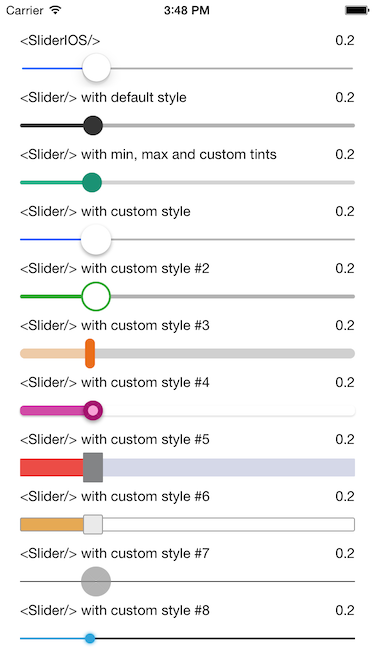
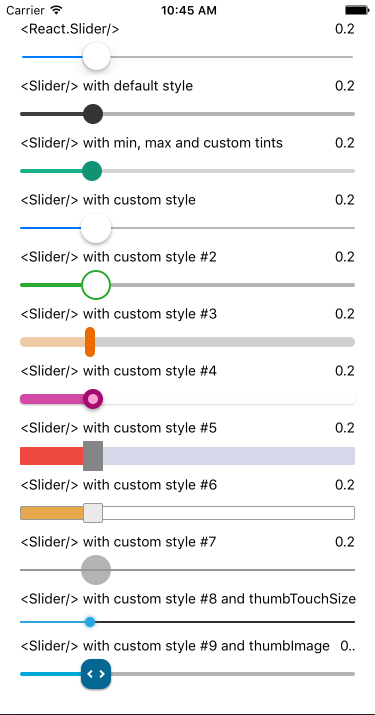
Add thumb image

Changed region(s): [[0.0, 0.0, 1.0, 1.0], [0.44, 0.0, 0.5867, 0.03]]

diff --git a/src/Slider.js b/src/Slider.js
@@ -7,6 +7,7 @@ import React, {
 
 import {
   Animated,
+  Image,
   StyleSheet,
   PanResponder,
   View
@@ -127,6 +128,11 @@ var Slider = React.createClass({
     thumbStyle: View.propTypes.style,
 
     /**
+     * Sets an image for the thumb.
+     */
+    thumbImage: Image.propTypes.source,
+
+    /**
      * Set this to true to visually see the thumb touch rect in green.
      */
     debugTouchArea: PropTypes.bool,
@@ -192,6 +198,7 @@ var Slider = React.createClass({
       minimumTrackTintColor,
       maximumTrackTintColor,
       thumbTintColor,
+      thumbImage,
       styles,
       style,
       trackStyle,
@@ -233,7 +240,9 @@ var Slider = React.createClass({
             {backgroundColor: thumbTintColor, marginTop: -(trackSize.height + thumbSize.height) / 2},
             mainStyles.thumb, thumbStyle, {left: thumbLeft, ...valueVisibleStyle}
           ]}
-        />
+        >
+          {this._renderThumbImage()}
+        </Animated.View>
         <View
           style={[defaultStyles.touchArea, touchOverflowStyle]}
           {...this._panResponder.panHandlers}>
@@ -439,6 +448,14 @@ var Slider = React.createClass({
         pointerEvents='none'
       />
     );
+  },
+
+  _renderThumbImage() {
+    var {thumbImage} = this.props;
+
+    if (!thumbImage) return;
+
+    return <Image source={thumbImage} />;
   }
 });
 

diff --git a/Example/app.js b/Example/app.js
@@ -135,6 +135,14 @@ var SliderExample = React.createClass({
             thumbTouchSize={{width: 50, height: 40}}
           />
         </SliderContainer>
+        <SliderContainer caption='<Slider/> with custom style #9 and thumbImage'>
+          <Slider
+            minimumTrackTintColor='#13a9d6'
+            thumbImage={require('./img/thumb.png')}
+            thumbStyle={customStyles9.thumb}
+            thumbTintColor='#0c6692'
+          />
+        </SliderContainer>
       </ScrollView>
     );
   },
@@ -281,7 +289,7 @@ var customStyles7 = StyleSheet.create({
 
 var customStyles8 = StyleSheet.create({
   container: {
-    height: 20,
+    height: 30,
   },
   track: {
     height: 2,
@@ -296,6 +304,17 @@ var customStyles8 = StyleSheet.create({
     shadowOffset: {width: 0, height: 0},
     shadowRadius: 2,
     shadowOpacity: 1,
+  }
+});
+
+var customStyles9 = StyleSheet.create({
+  thumb: {
+    width: 30,
+    height: 30,
+    shadowColor: 'black',
+    shadowOffset: {width: 0, height: 1},
+    shadowOpacity: 0.5,
+    shadowRadius: 1,
   }
 });
 

diff --git a/README.md b/README.md
@@ -92,6 +92,7 @@ onSlidingComplete     | function | Yes      |                           | Callba
 style                 | [style](http://facebook.github.io/react-native/docs/view.html#style)    | Yes      |                           | The style applied to the slider container
 trackStyle            | [style](http://facebook.github.io/react-native/docs/view.html#style)    | Yes      |                           | The style applied to the track
 thumbStyle            | [style](http://facebook.github.io/react-native/docs/view.html#style)    | Yes      |                           | The style applied to the thumb
+thumbImage            | [source](http://facebook.github.io/react-native/docs/image.html#source)    | Yes      |                           | Sets an image for the thumb.
 debugTouchArea        | bool     | Yes      | false                     | Set this to true to visually see the thumb touch rect in green.
 
 ---
